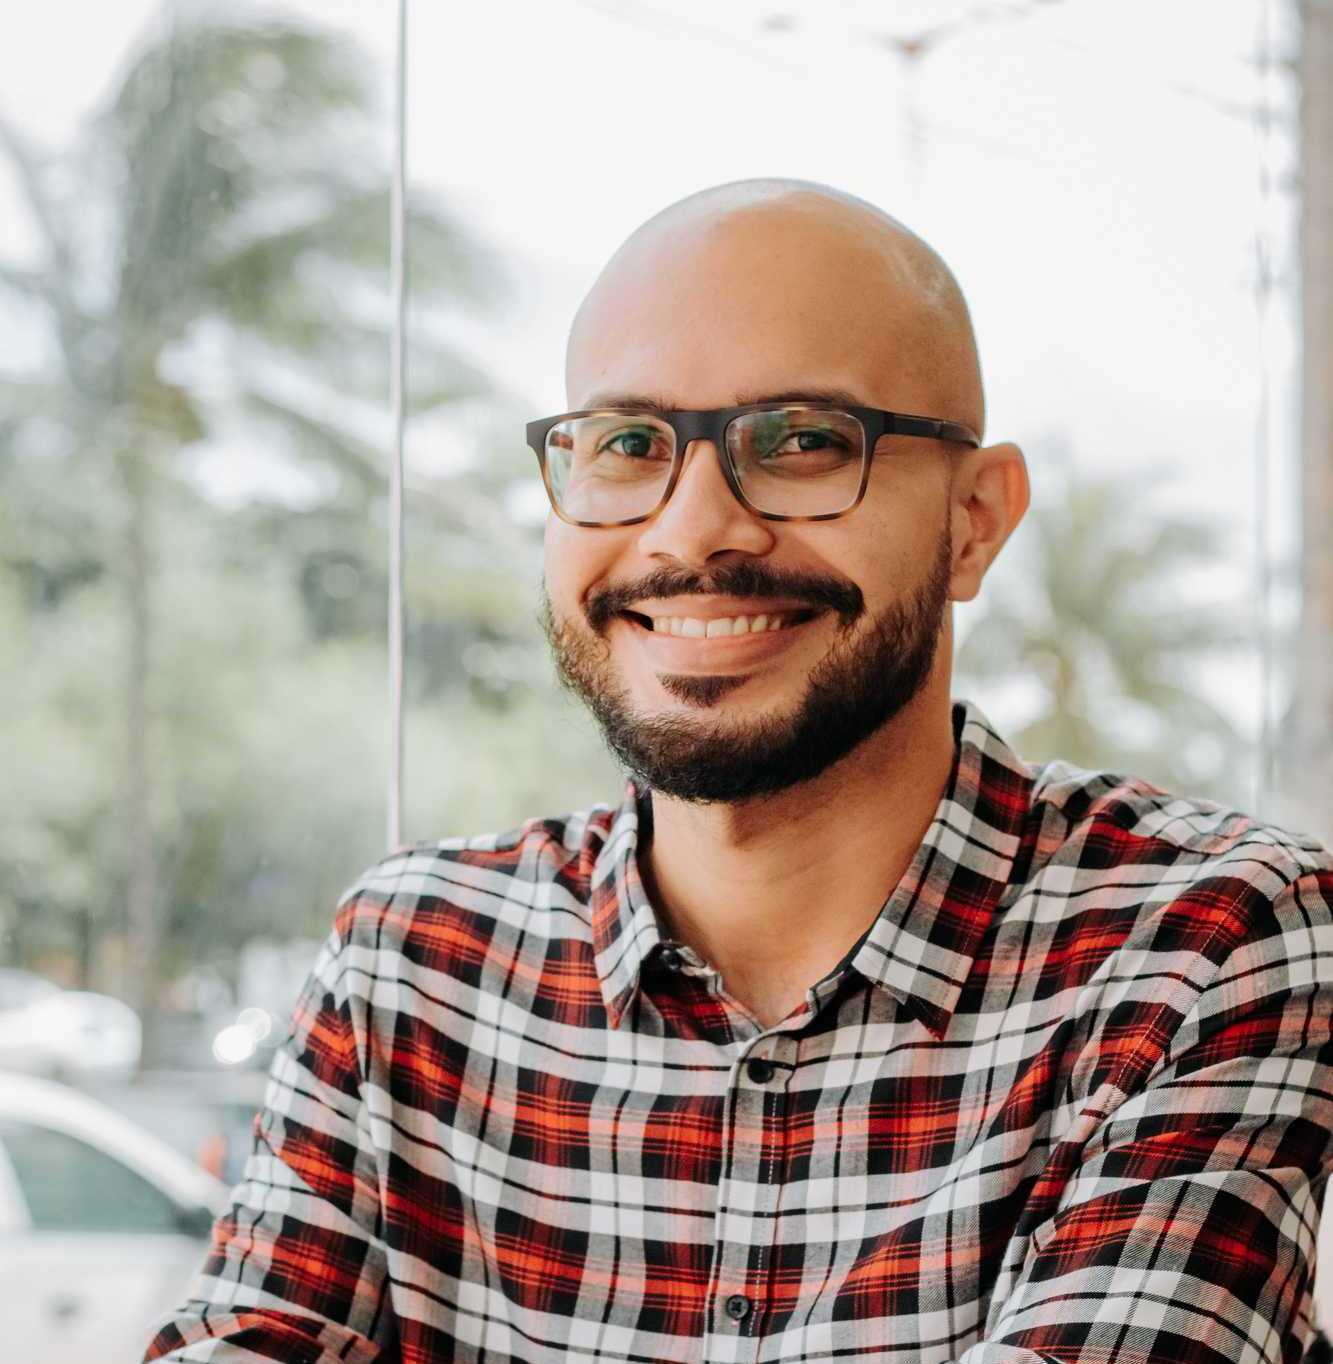
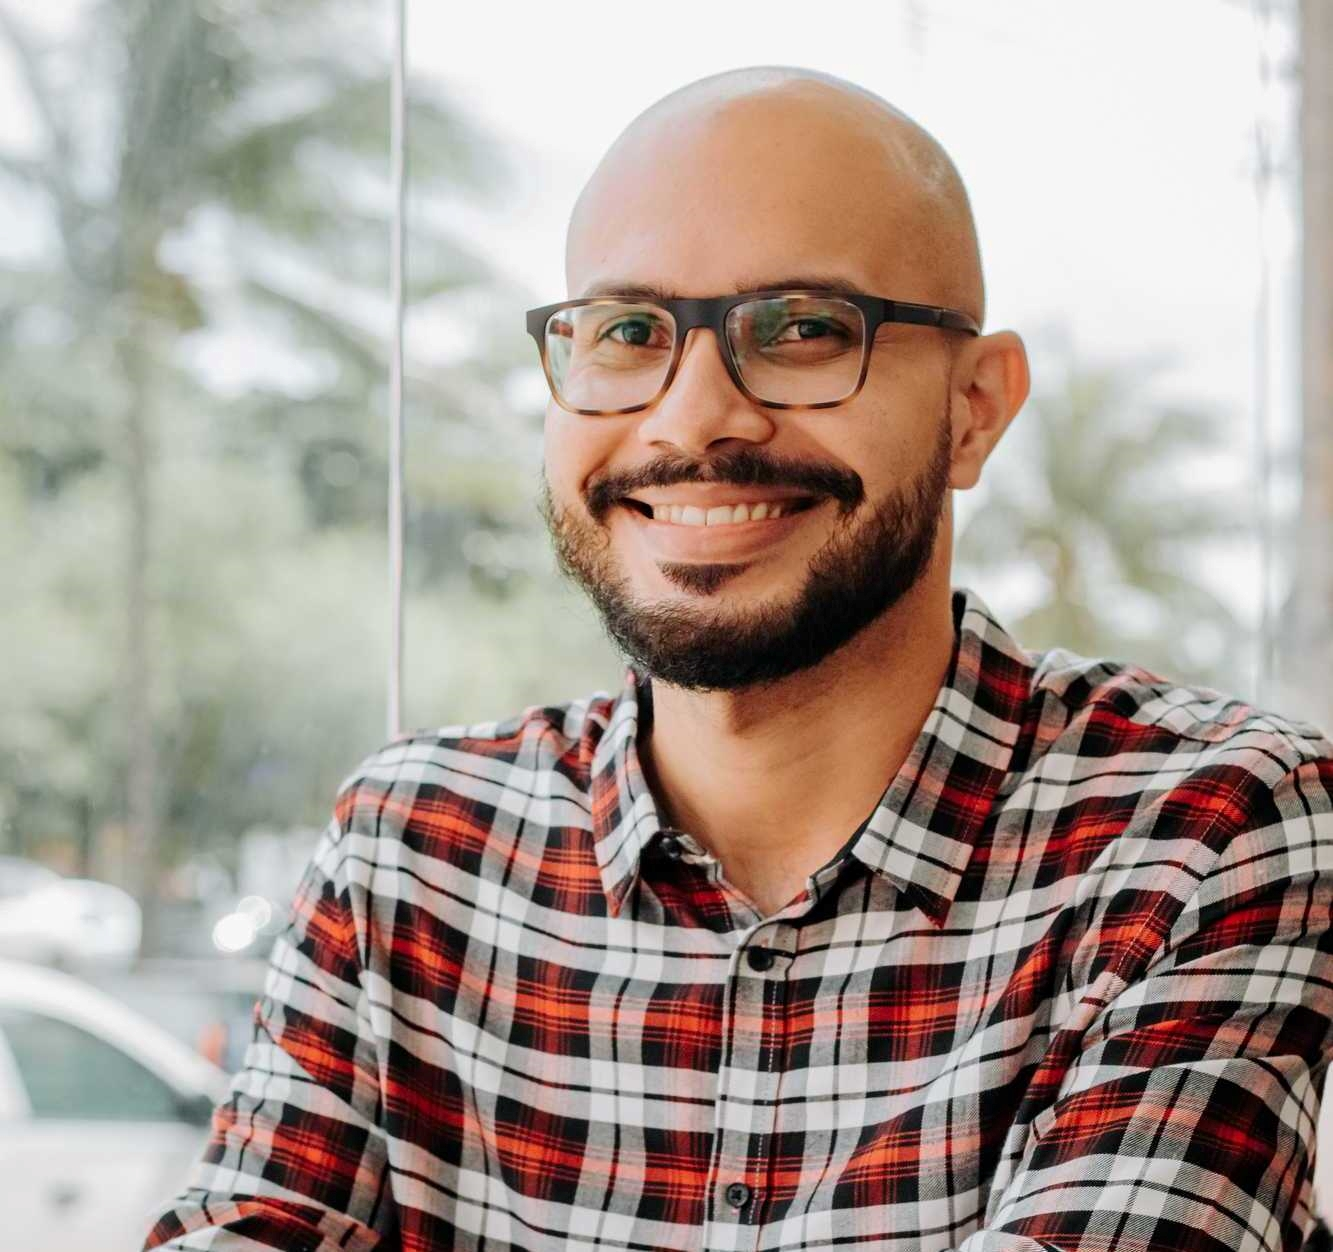
Finalizado o componente Sobre

diff --git a/src/component/CardSobre.js b/src/component/CardSobre.js
@@ -16,7 +16,7 @@ import classNames from 'classnames';
 
 const useStyles = makeStyles({
   root: {
-    maxWidth: 500,
+    maxWidth: 800,
   },
 });
 
@@ -31,7 +31,7 @@ const CardSobre = ({classCardSobre}) => {
         <CardMedia
           component="img"
           alt="João Bosco Junior"
-          height="140"
+          height="600"
           image= {profileImg}
           title="João Bosco Junior"
         />
@@ -40,7 +40,7 @@ const CardSobre = ({classCardSobre}) => {
             João Bosco Junior
           </Typography>
           <Typography variant="body2" color="textSecondary" component="p">
-            Meu nome é João Bosco Junior e sou um entusiasta de tecnologia e programação e desenvolvedor FrontEnd júnior em busca de me desenvolver pessoal e profissionalmente.
+            Meu nome é João Bosco Junior e sou um entusiasta em tecnologia, programação e desenvolvedor FrontEnd júnior em busca de crescimento pessoal e profissional.
           </Typography>
         </CardContent>
       </CardActionArea>
